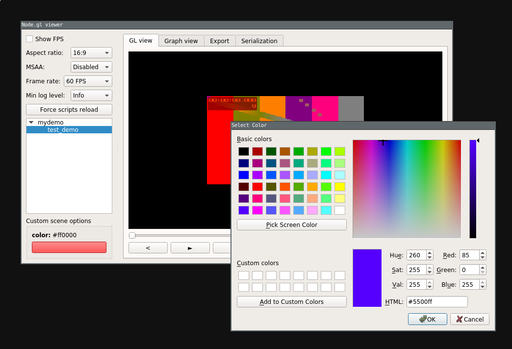
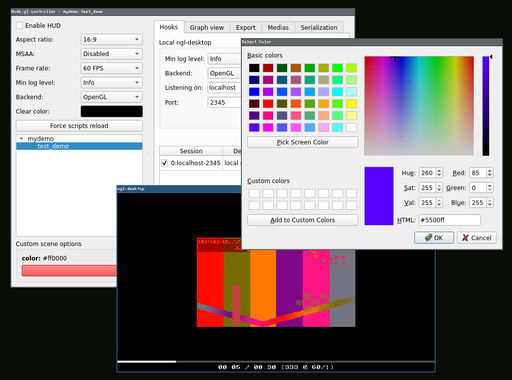
doc/tuto: rewrite starter doc relative to ngl-viewer/ngl-control

diff --git a/doc/tuto/start.md b/doc/tuto/start.md
@@ -21,15 +21,53 @@ see something like this:
 
 ![ngl-control](img/ngl-control.png)
 
+`ngl-control` doesn't render scenes directly, it's a controller which builds
+scenes from Python sources, then communicates the result to `ngl-desktop` for
+rendering. `ngl-desktop` is the native rendering player on desktop.
+
+So to be of any use, you will need one or more instances of `ngl-desktop`
+running on your machine first. You can either spawn them manually, or use the
+"Spawn ngl-desktop" button. The widgets above that button translates directly
+to the command-line options of `ngl-desktop`. You can not spawn several
+instances of `ngl-desktop` on the same port, but you are free to pick another
+port to spawn another instance, typically with a different configuration
+(such as another rendering backend).
+
+When `ngl-desktop` instances are running, you can press the "Refresh" button
+below, and you should see them appear in the list. This list is where you
+control which instance(s) you want to communicate with.
+
+Now on the bottom-left, you should see a bunch of scene examples. After
+selecting one, the `ngl-desktop` instances should update shortly after. Each
+`ngl-desktop` instance is independant, and you can control the playback by
+toggling pause (space) or seeking (arrows, mouse clicking, ...).
+
 All the scenes listed on the left tree view can be found in the
 [pynodegl_utils.examples][demo-tree] Python module. If you are curious on how
 each demo scene operates, look into this place.
 
+Also note that `ngl-control` supports live code editing by monitoring the files
+associated with the available scenes. The current scene will be reconstructed
+after every change in the sources.
+
+On the top-left part of the controller, you can control the generic parameters
+sent to each scene when they are constructed. Try to play with them and see how
+it affects the running `ngl-desktop` instances. Some scenes may decide to
+override these parameters (it's usually the aspect ratio). A red message will
+appear in the interface close to the affected settings to notify when this
+happens.
+
+Some scenes also have specific custom settings that will appear as widgets
+below the scene list.
+
+You may also notice the tabs, which offers different features and controls. One
+of them is the *Medias* tab, where you control the assets provided to the
+scenes for their composition.
+
 The default video being an overly saturated mire generated with FFmpeg, it is
 not a very interesting asset for most demos. It is suggested to select your own
-assets using the "Medias" tab, and then play around with the controller and its
-default demos. Some demo scenes also offer customization widgets (look at the
-bottom left of the UI), check them out!
+assets using this tab, and then play around with the controller and its
+default demos.
 
 [demo-tree]: /pynodegl-utils/pynodegl_utils/examples
 
